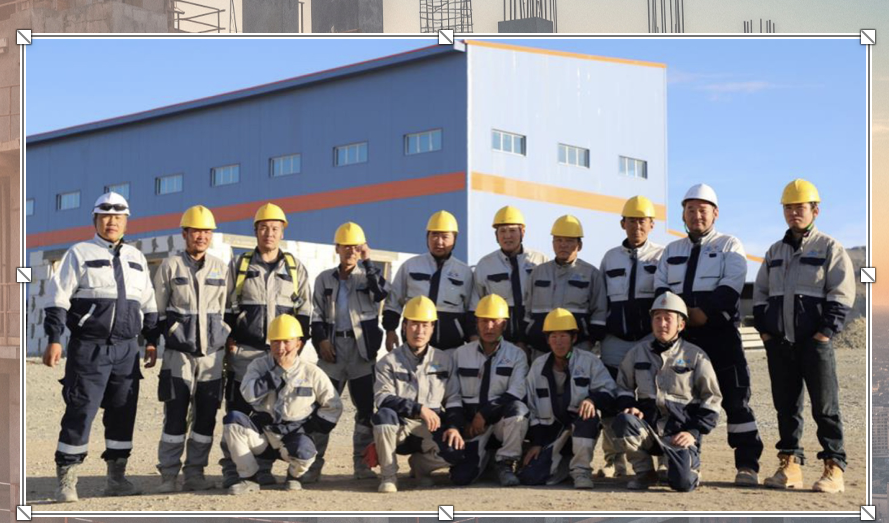
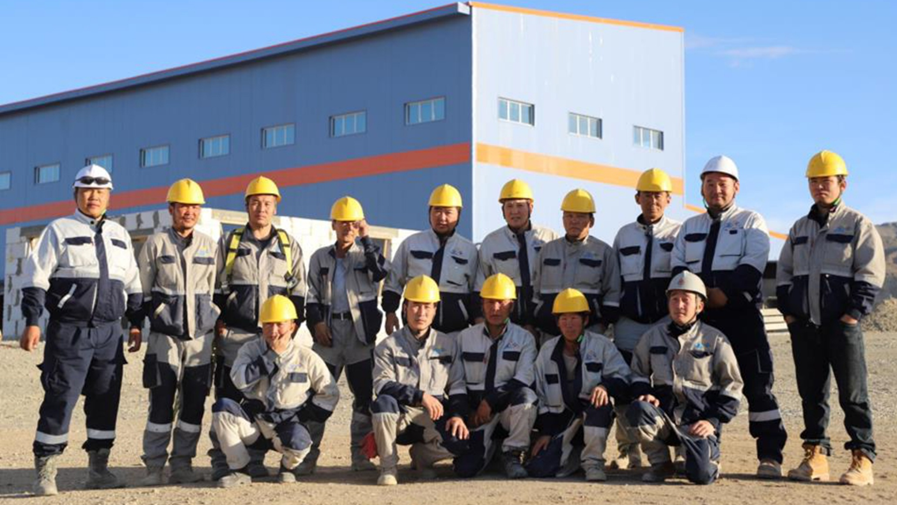
solar bolon telecom zuragnuud update hiiw

diff --git a/app/building/page.tsx b/app/building/page.tsx
@@ -11,8 +11,8 @@ const projects = [
     description:
       "Хайлуулах үйлдвэрийн барилгын дээвэр, хана дүүргэлт, шал талбай цутгалтын ажлыг гүйцэтгэсэн.",
     images: [
-      "/projects/han-altai-2022-1.jpg",
-      "/projects/han-altai-2022-2.jpg",
+      "/projects/uusmal.png",
+      "/projects/uusmal2.png",
     ],
     tags: ["Барилга угсралт", "Дээвэр", "Хана дүүргэлт"],
   },
@@ -23,9 +23,9 @@ const projects = [
     description:
       "Урвалжийн агуулах барилгыг ерөнхий гүйцэтгэгчээр ажиллан бүрэн дуусгаж, Улсын комисст хүлээлгэн өгч ашиглалтад оруулсан.",
     images: [
-      "/projects/han-altai-2023-1.jpg",
-      "/projects/han-altai-2023-2.jpg",
-      "/projects/han-altai-2023-3.jpg",
+      "/projects/object1.png",
+      "/projects/object2.png",
+      "/projects/object3.png",
     ],
     tags: ["Ерөнхий гүйцэтгэгч", "Агуулах барилга", "Улсын комисс"],
   },
@@ -35,7 +35,11 @@ const projects = [
     title: "Монголын нууц товчоо цогцолборын интерьер",
     description:
       "Хэнтий аймаг, Дэлгэрхаан сумд байрлах Монголын нуур товчоо цогцолборын интерьерийн ажлыг бүтэн дуусгасан.",
-    images: ["/projects/khasu-2023-1.jpg"],
+    images: ["/projects/tour1.png",
+      "/projects/tour2.png",
+      "/projects/tour3.png"
+    ],
+    
     tags: ["Интерьер", "Цогцолбор", "Хэнтий аймаг"],
   },
   {
@@ -45,8 +49,8 @@ const projects = [
     description:
       "Төв аймаг, Лүн суманд байрлах уурхайн ажилчдын орон сууцны барилгын 124м×14м барилгын суурь болон ханын угсралтын ажлыг гүйцэтгэсэн.",
     images: [
-      "/projects/han-altai-2024-house-1.jpg",
-      "/projects/han-altai-2024-house-2.jpg",
+      "/projects/object4.png",
+      "/projects/object5.png",
     ],
     tags: ["Орон сууц", "Суурь угсралт", "Төв аймаг — Лүн сум"],
   },
@@ -57,9 +61,8 @@ const projects = [
     description:
       "Төв аймаг, Лүн суманд байрлах уурхайн Оффис болон гал тогооны барилгын 62м×14м барилгын бетон хийц зэрэг томоохон ажлуудыг гүйцэтгэсэн.",
     images: [
-      "/projects/han-altai-2024-office-1.jpg",
-      "/projects/han-altai-2024-office-2.jpg",
-      "/projects/han-altai-2024-office-3.jpg",
+      "/projects/object6.png",
+    
     ],
     tags: ["Оффис барилга", "Бетон хийц", "Төв аймаг — Лүн сум"],
   },
@@ -85,24 +88,24 @@ const projects = [
 
 const galleryImages = [
   {
-    src: "/projects/gallery-1.jpg",
+    src: "/projects/uusmal.png",
     caption: "Хан-Алтай Ресурс ХХК — агуулах барилгын бүтэц",
   },
   {
-    src: "/projects/gallery-2.jpg",
+    src: "/projects/uusmal2.png",
     caption: "Хан-Алтай Ресурс ХХК — ханын угсралтын ажил",
   },
   {
-    src: "/projects/gallery-3.jpg",
+    src: "/projects/tour1.png",
     caption: "Хасу-Мегаватт ХХК — цогцолборын барилга",
   },
-  { src: "/projects/gallery-4.jpg", caption: "Барилгын суурийн бетон цутгалт" },
+  { src: "/projects/object1.png", caption: "Барилгын суурийн бетон цутгалт" },
   {
-    src: "/projects/gallery-5.jpg",
+    src: "/projects/object3.png",
     caption: "Ажилчдын орон сууц — дотор засал",
   },
   {
-    src: "/projects/gallery-6.jpg",
+    src: "/projects/object6.png",
     caption: "Лүн сум — уурхайн барилгын ажил",
   },
 ];

diff --git a/app/solar/page.tsx b/app/solar/page.tsx
@@ -49,10 +49,10 @@ export default function SolarPage() {
           <div className="flex flex-col md:flex-row md:items-start md:justify-between gap-4 mb-6">
             <div>
               <h1 className="text-2xl md:text-4xl font-black text-gray-900 tracking-tight">
-                ДАВХАРЛАСАН НЭГДСЭН ЭРЧИМ ХҮЧ ХАДГАЛАХ СИСТЕМ
+                 НЭГДСЭН ЭРЧИМ ХҮЧ ХАДГАЛАХ СИСТЕМ
               </h1>
               <p className="text-base md:text-xl font-semibold text-[#00b5b5] mt-1">
-                5кВт·ц – 30кВт·ц + 5кВт – 10кВт
+                
               </p>
               <p className="text-xs text-gray-500 mt-1">ZETATECH</p>
             </div>
@@ -61,8 +61,8 @@ export default function SolarPage() {
           {/* Үндсэн зураг */}
           <div className="w-full rounded-xl overflow-hidden bg-gray-100 mb-8 flex items-center justify-center">
             <img
-              src="/solar/product-main.jpg"
-              alt="Давхарласан эрчим хүч хадгалах систем"
+              src="/projects/gdsolar.png"
+              alt=" эрчим хүч хадгалах систем"
               className="w-full max-h-96 object-contain"
             />
           </div>
@@ -75,7 +75,7 @@ export default function SolarPage() {
             </p>
             <div className="w-full rounded-xl overflow-hidden bg-white flex items-center justify-center p-4">
               <img
-                src="/solar/inverter-brands.jpg"
+                src="/projects/inverter.png"
                 alt="Нийцтэй инвертор брэндүүд"
                 className="w-full max-h-64 object-contain"
               />
@@ -118,7 +118,7 @@ export default function SolarPage() {
           {/* Зураглал */}
           <div className="w-full rounded-xl overflow-hidden bg-gray-50 mb-6 p-4 flex items-center justify-center">
             <img
-              src="/solar/drawing-5kw.jpg"
+              src="/projects/5kw.png"
               alt="5кВт загварын зураглал"
               className="w-full max-h-48 object-contain"
             />
@@ -350,7 +350,7 @@ export default function SolarPage() {
 
           <div className="w-full rounded-xl overflow-hidden bg-gray-50 mb-6 p-4 flex items-center justify-center">
             <img
-              src="/solar/drawing-10kw.jpg"
+              src="/projects/5kw.png"
               alt="10кВт загварын зураглал"
               className="w-full max-h-48 object-contain"
             />
@@ -706,18 +706,12 @@ export default function SolarPage() {
             </div>
             <div className="w-full rounded-xl overflow-hidden bg-gray-100 flex items-center justify-center">
               <img
-                src="/solar/connection-diagram.jpg"
+                src="/projects/connection.png"
                 alt="Холболтын схем"
                 className="w-full max-h-72 object-contain"
               />
             </div>
-            <div className="w-full rounded-xl overflow-hidden bg-gray-100 flex items-center justify-center">
-              <img
-                src="/solar/home-system.jpg"
-                alt="Гэрийн систем"
-                className="w-full max-h-72 object-contain"
-              />
-            </div>
+            
             <div className="text-xs text-gray-500 flex gap-4 justify-center flex-wrap">
               <span>
                 <span className="text-red-500 font-bold">——</span> AC кабель
@@ -740,7 +734,7 @@ export default function SolarPage() {
           </h2>
           <div className="w-full rounded-xl overflow-hidden bg-gray-100 mb-6 flex items-center justify-center">
             <img
-              src="/solar/applications.jpg"
+              src="/projects/usage solar.png"
               alt="Хэрэглээний салбарууд"
               className="w-full max-h-72 object-contain"
             />